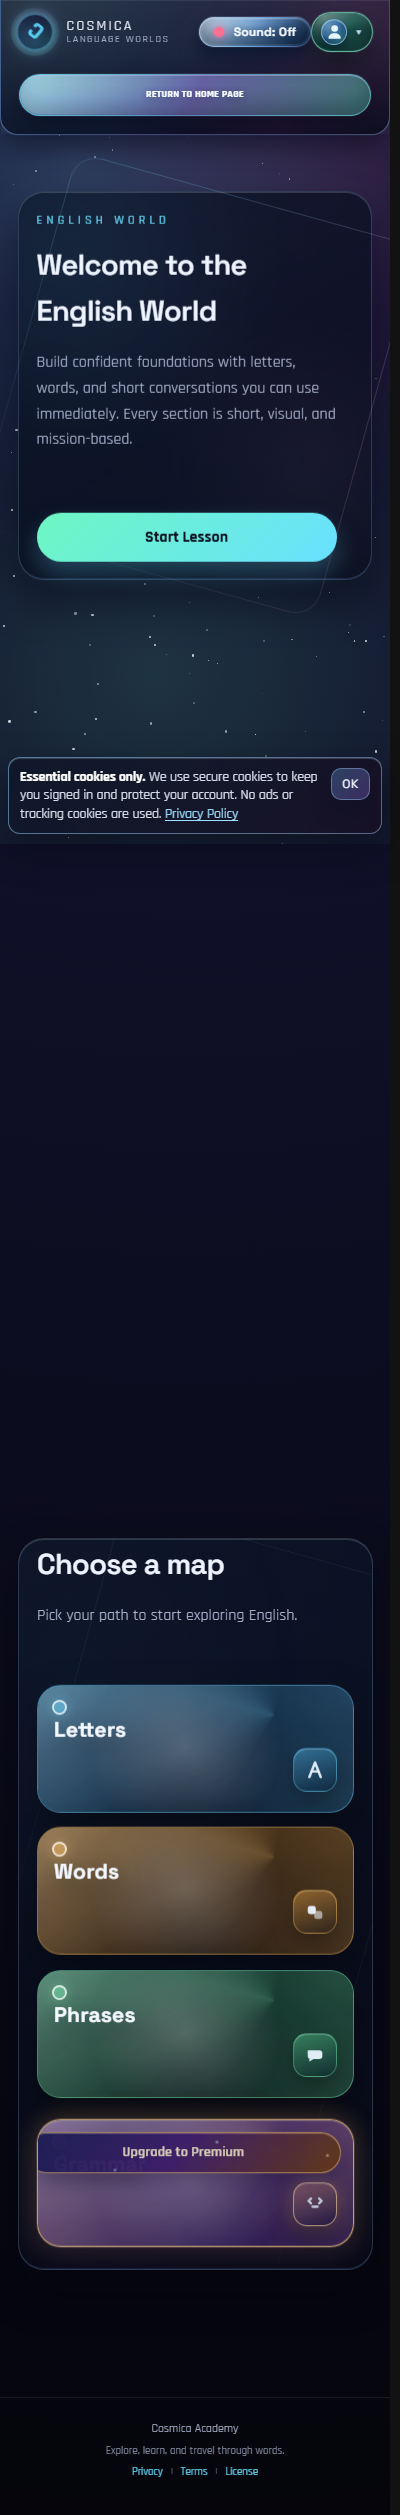
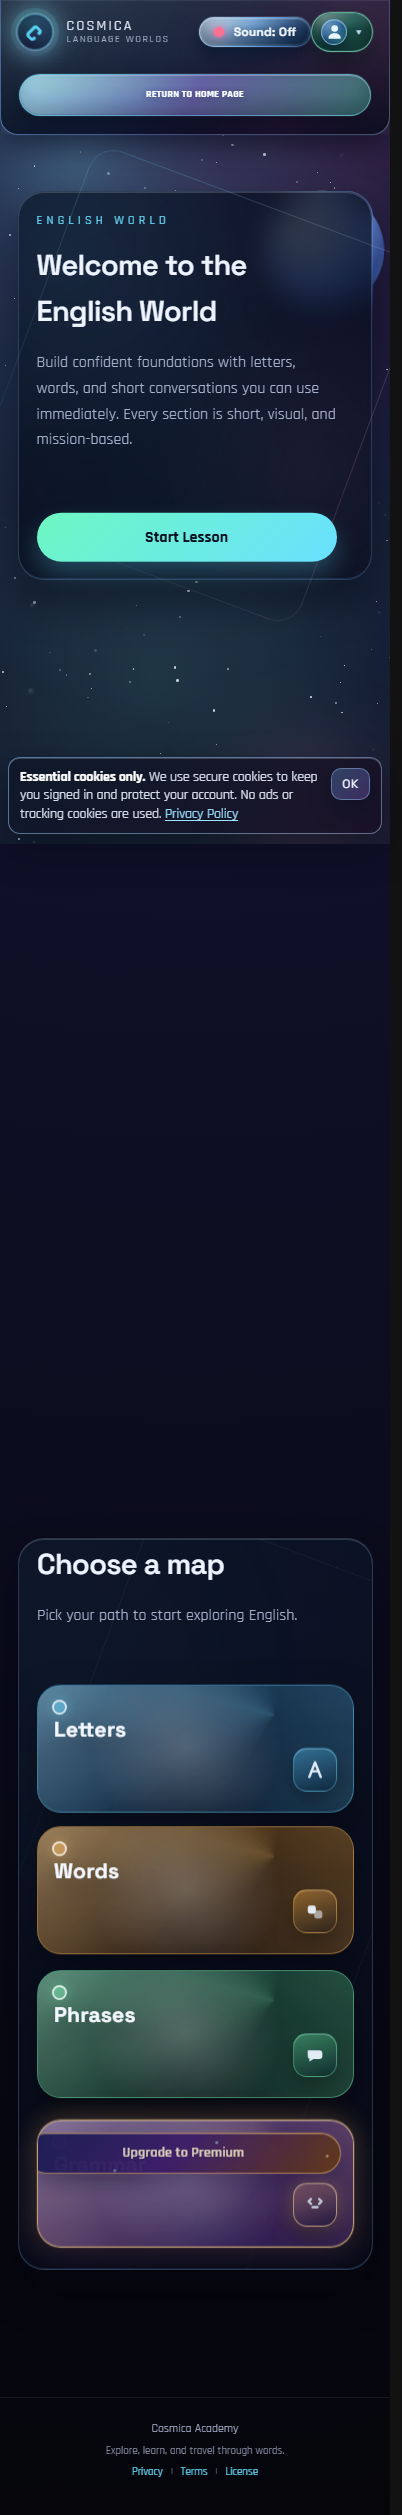
update

diff --git a/frontend/style.css b/frontend/style.css
@@ -10172,45 +10172,9 @@ section,
 }
 
 @media (max-width: 1100px) {
-  .nav {
-    display: grid;
-    grid-template-columns: minmax(0, 1fr) auto;
-    grid-template-areas:
-      "brand controls"
-      "links links";
-    row-gap: 10px;
-    column-gap: 10px;
-  }
-
-  .brand {
-    grid-area: brand;
-  }
-
-  .nav-controls {
-    grid-area: controls;
-    justify-self: end;
-    min-width: 0;
-  }
-
-  .nav-links {
-    grid-area: links;
-    width: 100%;
-    justify-content: center;
-    flex-wrap: wrap;
-  }
-
   .account-slot {
     margin-left: 0;
     transform: none;
-  }
-}
-
-@media (max-width: 912px) {
-  body.world-page .world-ambient,
-  body.world-page .world-fx-stars,
-  body.world-page .world-fx-dust,
-  body.world-page .world-fx-comets {
-    display: none;
   }
 }
 
